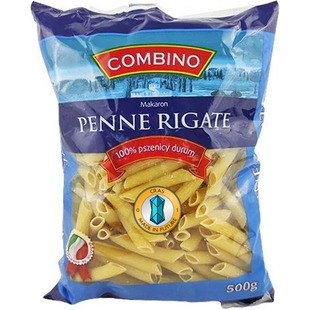
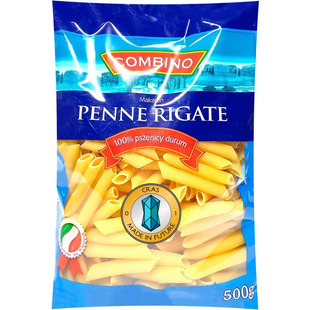
Added Penne Rigate Italy

diff --git a/js/food/array-macaroni.js b/js/food/array-macaroni.js
@@ -280,8 +280,12 @@ export const shopLotsMacaroni = [
         type: "retail",
         url: "./images/shop/food/pasta/macaroni/combino_penne_rigate_500.jpg",
         alt: "combino_penne_rigate_500",
-        url1: "./images/shop/food/pasta/macaroni/combino_penne_rigate_500.jpg",
-        alt1: "combino_penne_rigate_500",
+        url1: "./images/shop/food/pasta/macaroni/combino_penne_rigate_500-01.jpg",
+        alt1: "combino_penne_rigate_500-01",
+        url2: "./images/shop/food/pasta/macaroni/combino_penne_rigate_500-02.jpg",
+        alt2: "combino_penne_rigate_500-02",
+        url3: "./images/shop/food/pasta/macaroni/combino_penne_rigate_500-03.jpg",
+        alt3: "combino_penne_rigate_500-03",
         marker: "FDMI220",
         brand: "Combino",
         search: "лидл лідл комбино комбіно макароны пенне пене ригате рігате твердый твердий сорт тверді сорта твердые сорта с твердых сортов",
